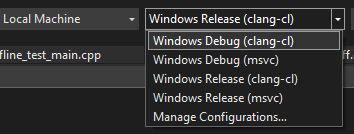
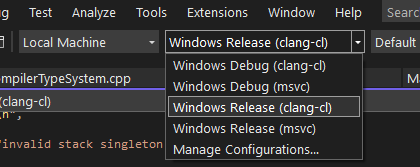
[runtime] bug & crash fixes (#1211)
* bug & crash fixes

* relax fog hack slightly

* buff particles more

* borderless hack

* tone down sprite hack

* int consts in `deftype` + increase sparticle queue

* move a menu button around

* clang + test fixes

* less confusing image

* add test for new deftype feature

diff --git a/common/type_system/deftype.cpp b/common/type_system/deftype.cpp
@@ -10,12 +10,9 @@
 
 /*!
  * Missing Features
- * - Bitfields
  * - Int128 children
  * - Refer to yourself (structure/basic only)
  * - Method List
- * - Evaluate constants.
- *
  */
 
 namespace {
@@ -80,7 +77,10 @@ double get_float(const goos::Object& obj) {
   throw std::runtime_error(obj.print() + " was supposed to be an number, but isn't");
 }
 
-void add_field(StructureType* structure, TypeSystem* ts, const goos::Object& def) {
+void add_field(StructureType* structure,
+               TypeSystem* ts,
+               const goos::Object& def,
+               std::unordered_map<goos::HeapObject*, goos::Object>& constants) {
   auto rest = &def;
 
   auto name = symbol_string(car(rest));
@@ -101,6 +101,10 @@ void add_field(StructureType* structure, TypeSystem* ts, const goos::Object& def
     if (car(rest).is_int()) {
       array_size = car(rest).integer_obj.value;
       rest = cdr(rest);
+    } else if (car(rest).is_symbol() &&
+               constants.find((car(rest)).as_symbol()) != constants.end()) {
+      array_size = get_int(constants[(car(rest)).as_symbol()]);
+      rest = cdr(rest);
     }
 
     while (!rest->is_empty_list()) {
@@ -113,6 +117,15 @@ void add_field(StructureType* structure, TypeSystem* ts, const goos::Object& def
         is_dynamic = true;
       } else if (opt_name == ":offset") {
         offset_override = get_int(car(rest));
+        rest = cdr(rest);
+      } else if (opt_name == ":overlay-at") {
+        auto field_name = symbol_string(car(rest));
+        Field overlay_field;
+        if (!structure->lookup_field(field_name, &overlay_field)) {
+          throw std::runtime_error(
+              fmt::format("Field {} not found to overlay for {}", field_name, name));
+        }
+        offset_override = overlay_field.offset();
         rest = cdr(rest);
       } else if (opt_name == ":score") {
         score = get_float(car(rest));
@@ -280,12 +293,14 @@ struct StructureDefResult {
   bool always_stack_singleton = false;
 };
 
-StructureDefResult parse_structure_def(StructureType* type,
-                                       TypeSystem* ts,
-                                       const goos::Object& fields,
-                                       const goos::Object& options) {
+StructureDefResult parse_structure_def(
+    StructureType* type,
+    TypeSystem* ts,
+    const goos::Object& fields,
+    const goos::Object& options,
+    std::unordered_map<goos::HeapObject*, goos::Object>& constants) {
   StructureDefResult result;
-  for_each_in_list(fields, [&](const goos::Object& o) { add_field(type, ts, o); });
+  for_each_in_list(fields, [&](const goos::Object& o) { add_field(type, ts, o, constants); });
   TypeFlags flags;
   flags.heap_base = 0;
 
@@ -530,7 +545,15 @@ TypeSpec parse_typespec(const TypeSystem* type_system, const goos::Object& src) 
   return {};
 }
 
-DeftypeResult parse_deftype(const goos::Object& deftype, TypeSystem* ts) {
+DeftypeResult parse_deftype(const goos::Object& deftype,
+                            TypeSystem* ts,
+                            std::unordered_map<goos::HeapObject*, goos::Object>* constants) {
+  std::unordered_map<goos::HeapObject*, goos::Object> no_consts;
+  auto& constants_to_use = no_consts;
+  if (constants != nullptr) {
+    constants_to_use = *constants;
+  }
+
   auto iter = &deftype;
 
   auto& type_name_obj = car(iter);
@@ -545,7 +568,7 @@ DeftypeResult parse_deftype(const goos::Object& deftype, TypeSystem* ts) {
     throw std::runtime_error("deftype must be given a symbol as the type name");
   }
 
-  auto name = type_name_obj.as_symbol()->name;
+  auto& name = type_name_obj.as_symbol()->name;
   auto parent_type_name = deftype_parent_list(parent_list_obj);
   auto parent_type = ts->make_typespec(parent_type_name);
   DeftypeResult result;
@@ -561,7 +584,8 @@ DeftypeResult parse_deftype(const goos::Object& deftype, TypeSystem* ts) {
     }
     new_type->inherit(pto);
     ts->forward_declare_type_as(name, "basic");
-    auto sr = parse_structure_def(new_type.get(), ts, field_list_obj, options_obj);
+    auto sr =
+        parse_structure_def(new_type.get(), ts, field_list_obj, options_obj, constants_to_use);
     result.flags = sr.flags;
     result.create_runtime_type = sr.generate_runtime_type;
     if (sr.pack_me) {
@@ -592,7 +616,8 @@ DeftypeResult parse_deftype(const goos::Object& deftype, TypeSystem* ts) {
     ASSERT(pto);
     new_type->inherit(pto);
     ts->forward_declare_type_as(name, "structure");
-    auto sr = parse_structure_def(new_type.get(), ts, field_list_obj, options_obj);
+    auto sr =
+        parse_structure_def(new_type.get(), ts, field_list_obj, options_obj, constants_to_use);
     result.flags = sr.flags;
     result.create_runtime_type = sr.generate_runtime_type;
     if (sr.pack_me) {

diff --git a/test/test_type_system.cpp b/test/test_type_system.cpp
@@ -47,7 +47,7 @@ TEST(TypeSystemReverse, NestedInlineWeird) {
   ts.add_builtin_types();
   goos::Reader reader;
   auto add_type = [&](const std::string& str) {
-    auto in = reader.read_from_string(str).as_pair()->cdr.as_pair()->car.as_pair()->cdr;
+    auto& in = reader.read_from_string(str).as_pair()->cdr.as_pair()->car.as_pair()->cdr;
     parse_deftype(in, &ts);
   };
 
@@ -474,13 +474,14 @@ TEST(Deftype, deftype) {
   TypeSystem ts;
   ts.add_builtin_types();
   std::string input =
-      "(deftype my-type (basic) ((f1 int64) (f2 string) (f3 int8) (f4 type :inline)))";
+      "(deftype my-type (basic) ((f1 int64) (f2 string) (f3 int8) (f4 type :inline) (f5 uint64 "
+      ":overlay-at f1)))";
   goos::Reader reader;
-  auto in = reader.read_from_string(input).as_pair()->cdr.as_pair()->car.as_pair()->cdr;
+  auto& in = reader.read_from_string(input).as_pair()->cdr.as_pair()->car.as_pair()->cdr;
   auto result = parse_deftype(in, &ts);
 
   auto& f = dynamic_cast<StructureType*>(ts.lookup_type(result.type))->fields();
-  EXPECT_EQ(f.size(), 5);
+  EXPECT_EQ(f.size(), 6);
 
   auto& tf = f.at(0);
   EXPECT_EQ(tf.name(), "type");
@@ -511,6 +512,12 @@ TEST(Deftype, deftype) {
   EXPECT_EQ(f4.offset(), 32);
   EXPECT_EQ(f4.type().print(), "type");
   EXPECT_EQ(f4.is_inline(), true);
+
+  auto& f5 = f.at(5);
+  EXPECT_EQ(f5.name(), "f5");
+  EXPECT_EQ(f5.offset(), f1.offset());
+  EXPECT_EQ(f5.type().print(), "uint64");
+  EXPECT_EQ(f5.is_inline(), false);
 }
 
 // TODO - a big test to make sure all the builtin types are what we expect.

diff --git a/game/graphics/display.cpp b/game/graphics/display.cpp
@@ -94,6 +94,12 @@ int GfxDisplay::width() {
 int GfxDisplay::height() {
   int h;
   m_renderer->display_size(this, NULL, &h);
+#ifdef _WIN32
+  if (fullscreen_mode() == 2) {
+    // windows borderless hack
+    h--;
+  }
+#endif
   return h;
 }
 

diff --git a/common/type_system/deftype.h b/common/type_system/deftype.h
@@ -16,5 +16,8 @@ struct DeftypeResult {
   bool create_runtime_type = true;
 };
 
-DeftypeResult parse_deftype(const goos::Object& deftype, TypeSystem* ts);
+DeftypeResult parse_deftype(
+    const goos::Object& deftype,
+    TypeSystem* ts,
+    std::unordered_map<goos::HeapObject*, goos::Object>* constants = nullptr);
 TypeSpec parse_typespec(const TypeSystem* type_system, const goos::Object& src);

diff --git a/decompiler/util/DecompilerTypeSystem.cpp b/decompiler/util/DecompilerTypeSystem.cpp
@@ -46,7 +46,7 @@ void for_each_in_list(goos::Object& list, T f) {
 
 void DecompilerTypeSystem::parse_type_defs(const std::vector<std::string>& file_path) {
   auto read = m_reader.read_from_file(file_path);
-  auto data = cdr(read);
+  auto& data = cdr(read);
 
   for_each_in_list(data, [&](goos::Object& o) {
     try {

diff --git a/game/graphics/opengl_renderer/OpenGLRenderer.cpp b/game/graphics/opengl_renderer/OpenGLRenderer.cpp
@@ -43,7 +43,7 @@ void GLAPIENTRY opengl_error_callback(GLenum source,
   } else if (severity == GL_DEBUG_SEVERITY_HIGH) {
     lg::error("[{}] OpenGL error 0x{:X} S{:X} T{:X}: {}", g_current_render, id, source, type,
               message);
-    ASSERT(false);
+    // ASSERT(false);
   }
 }
 

diff --git a/game/graphics/opengl_renderer/debug_gui.h b/game/graphics/opengl_renderer/debug_gui.h
@@ -67,7 +67,7 @@ class OpenGlDebugGui {
   float target_fps = 60.f;
   bool experimental_accurate_lag = false;
   bool sleep_in_frame_limiter = true;
-  bool small_profiler = true;
+  bool small_profiler = false;
 
  private:
   FrameTimeRecorder m_frame_timer;

diff --git a/goalc/compiler/compilation/Type.cpp b/goalc/compiler/compilation/Type.cpp
@@ -362,7 +362,7 @@ Val* Compiler::compile_deftype(const goos::Object& form, const goos::Object& res
   (void)env;
 
   // parse the type definition and add to the type system
-  auto result = parse_deftype(rest, &m_ts);
+  auto result = parse_deftype(rest, &m_ts, &m_global_constants);
 
   // look up the type name
   auto kv = m_symbol_types.find(result.type.base_type());